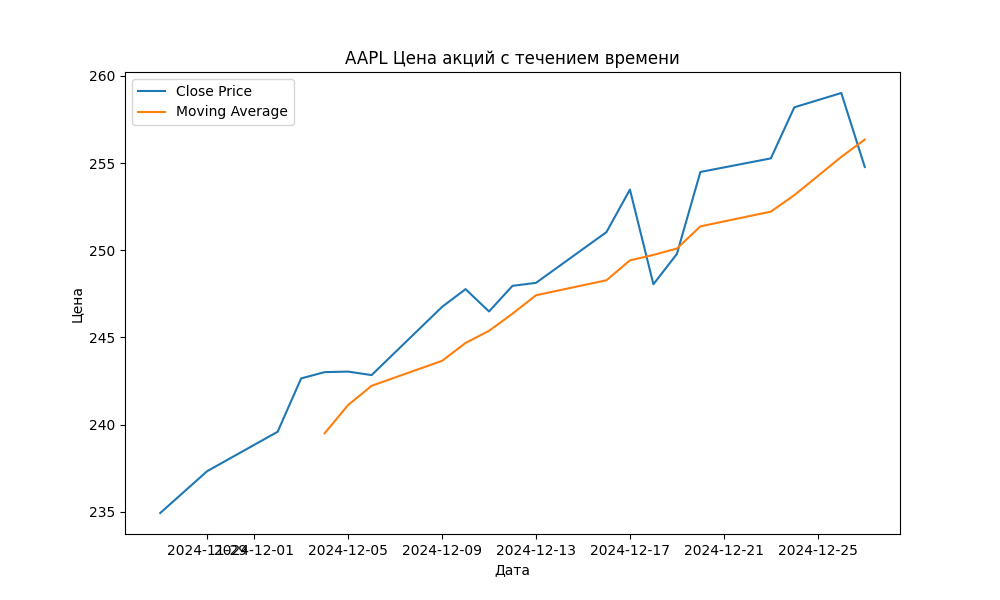
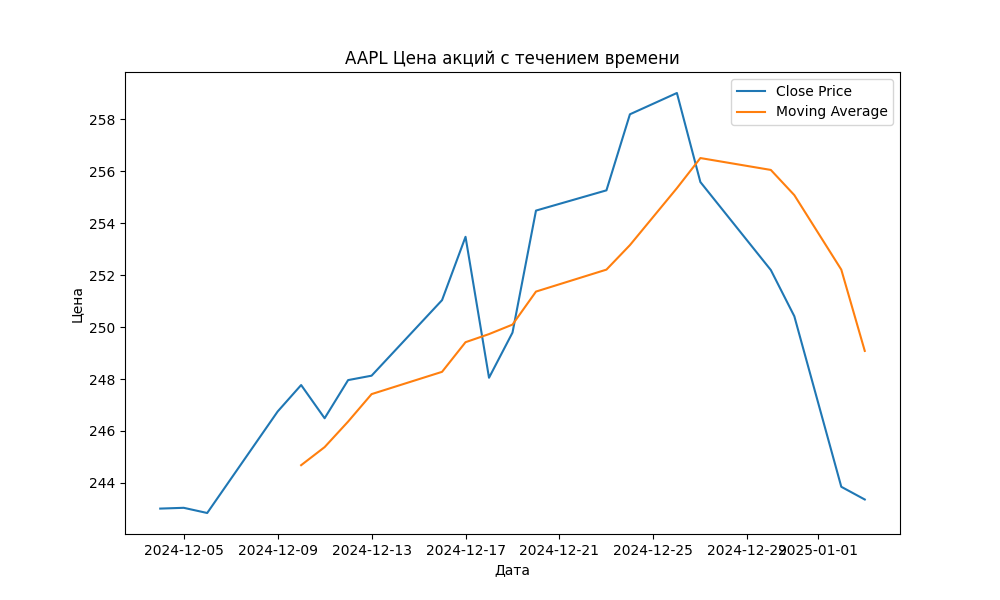
Add files via upload

diff --git a/Проект 1/data_download.py b/Проект 1/data_download.py
@@ -11,6 +11,27 @@ def add_moving_average(data, window_size=5):
     data["Moving_Average"] = data["Close"].rolling(window=window_size).mean()
     return data
 
+
 def calculate_and_display_average_price(data):
+    """
+    data: Принимает БД с данными по запрошенной акции
+    average: Принимает среднее значение колонки Close
+    """
     average = data["Close"].mean()
-    print(average)
+    return average
+
+
+def notify_if_strong_fluctuations(data, threshold):
+    """
+
+    data: Принимает БД с данными по запрошенной акции
+    threshold: Принимает пороговое значение колебаний в процентах от средней цены закрытия за указанный период
+    return: Уведомляет пользователя, если цена акций колебалась более чем на заданный процент за период
+    """
+    min_price = data["Close"].min()
+    max_price = data["Close"].max()
+
+    difference = max_price - min_price
+    percent = difference / (calculate_and_display_average_price(data) / 100)
+    if percent >= threshold:
+        print("Цена акций колебалась более чем на заданный процент!")

diff --git a/Проект 1/main.py b/Проект 1/main.py
@@ -16,10 +16,14 @@ def main():
     # Add moving average to the data
     stock_data = dd.add_moving_average(stock_data)
 
+    # Checking for fluctuations
+    dd.notify_if_strong_fluctuations(stock_data, 20)
+
+    # Calculate the average value of the 'Close' column
     dd.calculate_and_display_average_price(stock_data)
 
     # Plot the data
-    # dplt.create_and_save_plot(stock_data, ticker, period)
+    dplt.create_and_save_plot(stock_data, ticker, period)
 
 
 if __name__ == "__main__":

diff --git a/Проект 1/readme.md b/Проект 1/readme.md
@@ -1,0 +1,3 @@
+![alt text](screenshot/image.png)
+![alt text](screenshot/image2.png)
+![alt text](screenshot/image3.png)
